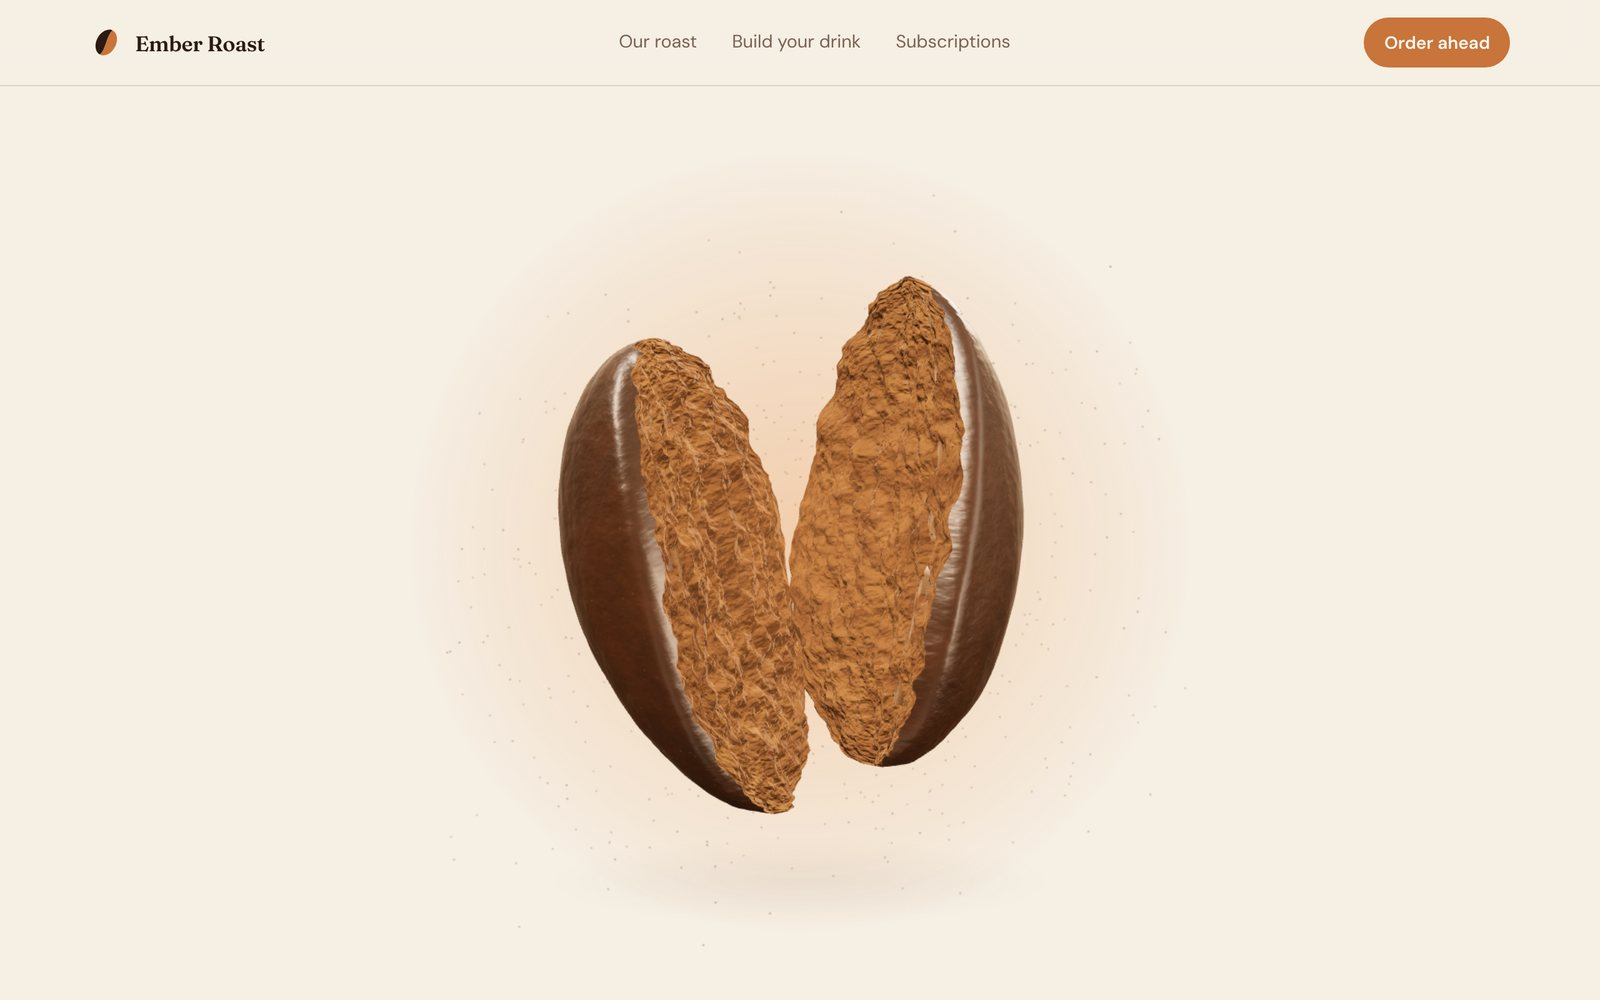
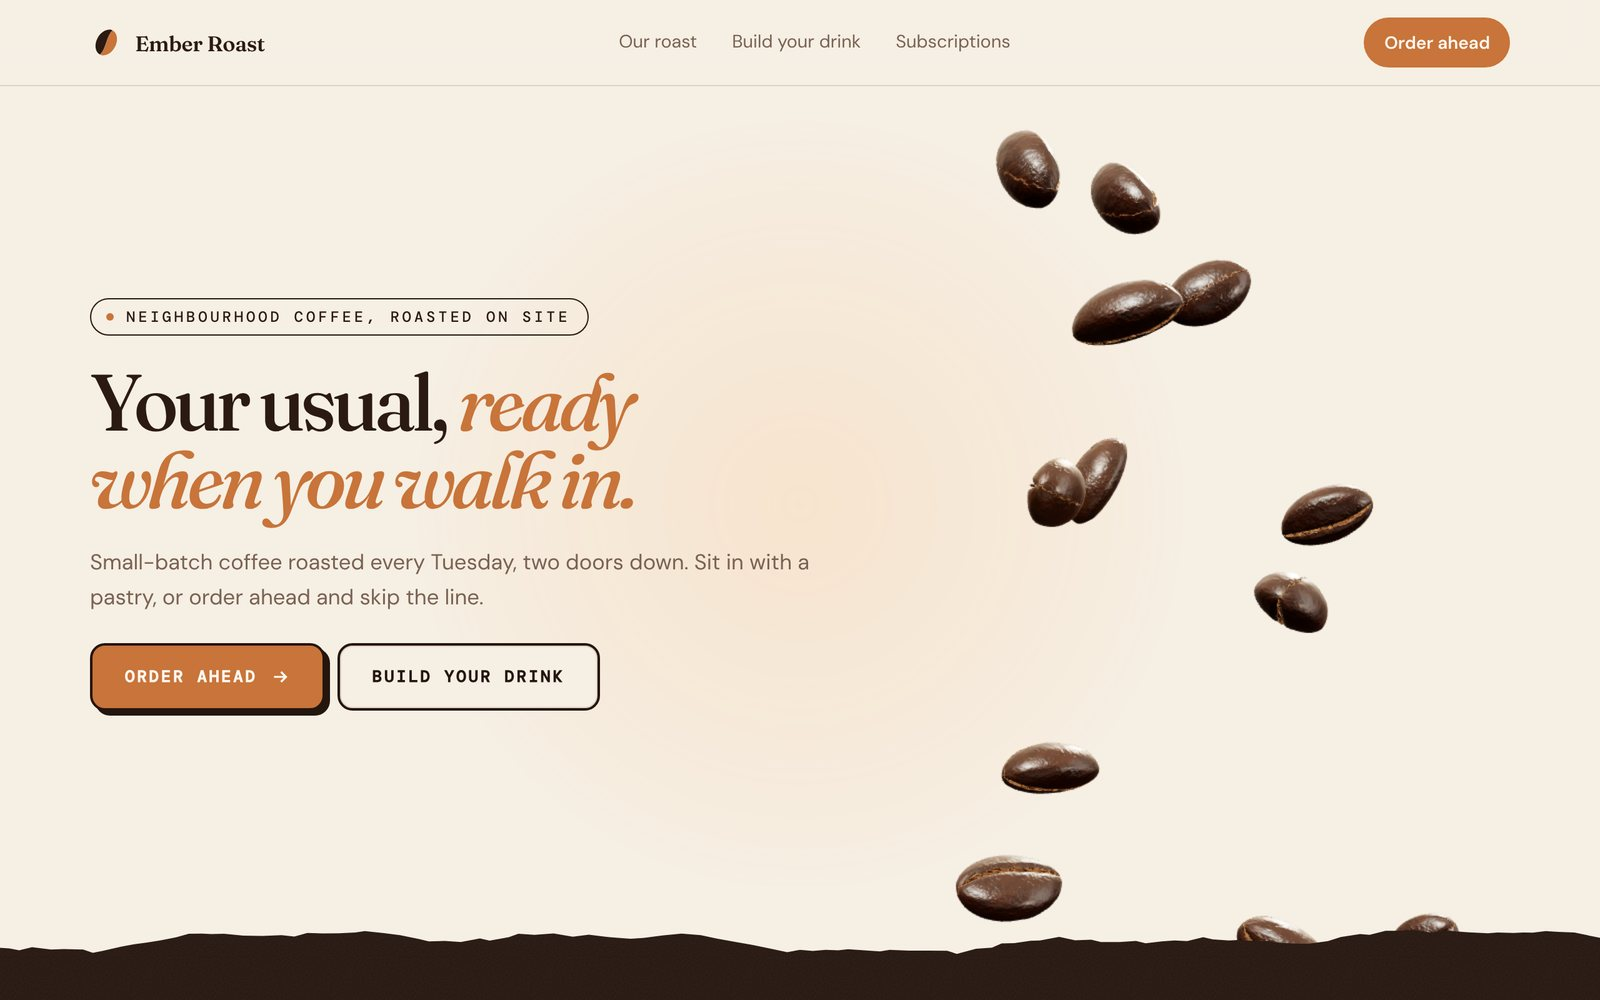
Sync Whop site
Claude-Session: https://claude.ai/code/session_01R4Yd9DXFZUHxv4JskfZizu

diff --git a/whop-site/site/index.html b/whop-site/site/index.html
@@ -362,7 +362,7 @@ setTimeout(function(){r.classList.remove('intro-hold');},1150);setTimeout(functi
     <div class="samples">
       <a class="sample reveal" href="/samples/ironpath" style="--s1:#c7f36b;--s2:#0b0d0c"><img class="s-shot" src="/assets/shots/ironpath.jpg" alt="" width="800" height="500" loading="lazy"><span class="s-ind">Fitness &amp; Wellness · One page · Starter $284</span><b>Ironpath</b><span>A 3D logo that draws itself as you scroll, then fades into the headline. Plus a live plan builder.</span><em>Open sample →</em></a>
       <a class="sample reveal" href="/samples/synthra" style="--s1:#5ef0ff;--s2:#05070f"><img class="s-shot" src="/assets/shots/synthra.jpg" alt="" width="800" height="500" loading="lazy"><span class="s-ind">Technology &amp; IT · One page · Starter $284</span><b>Synthra</b><span>An orbiting core that flies past you as you scroll, and a live AI agent you can give tasks to.</span><em>Open sample →</em></a>
-      <a class="sample reveal" href="/samples/ember-roast" style="--s1:#c8743a;--s2:#2b1a12"><img class="s-shot" src="/assets/shots/ember-roast.jpg" alt="" width="800" height="500" loading="lazy"><span class="s-ind">Local Services · One page · Starter $284</span><b>Ember Roast</b><span>A real 3D coffee bean that cracks open as you scroll, and a drink builder.</span><em>Open sample →</em></a>
+      <a class="sample reveal" href="/samples/ember-roast" style="--s1:#c8743a;--s2:#2b1a12"><img class="s-shot" src="/assets/shots/ember-roast.jpg" alt="" width="800" height="500" loading="lazy"><span class="s-ind">Local Services · One page · Starter $284</span><b>Ember Roast</b><span>A real 3D coffee bean that cracks open as you scroll, then beans keep falling beside the headline. Plus a drink builder.</span><em>Open sample →</em></a>
       <a class="sample reveal" href="/samples/deduction" style="--s1:#ffcc4d;--s2:#0d0f1a"><img class="s-shot" src="/assets/shots/deduction.jpg" alt="" width="800" height="500" loading="lazy"><span class="s-ind">Creators &amp; Education · One page · Starter $284</span><b>Deduction</b><span>Code brackets that open to reveal the headline, and a real live-coding playground.</span><em>Open sample →</em></a>
     </div>
     <div class="proof-links reveal" style="max-width:640px">
